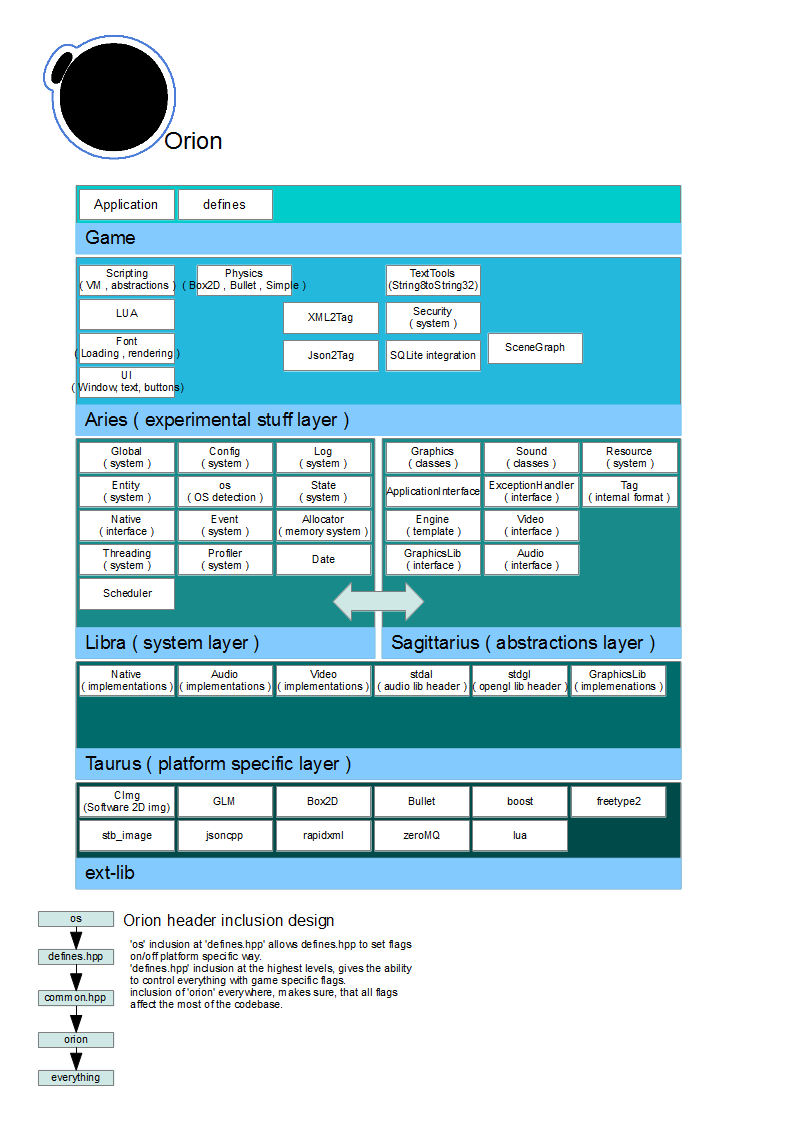
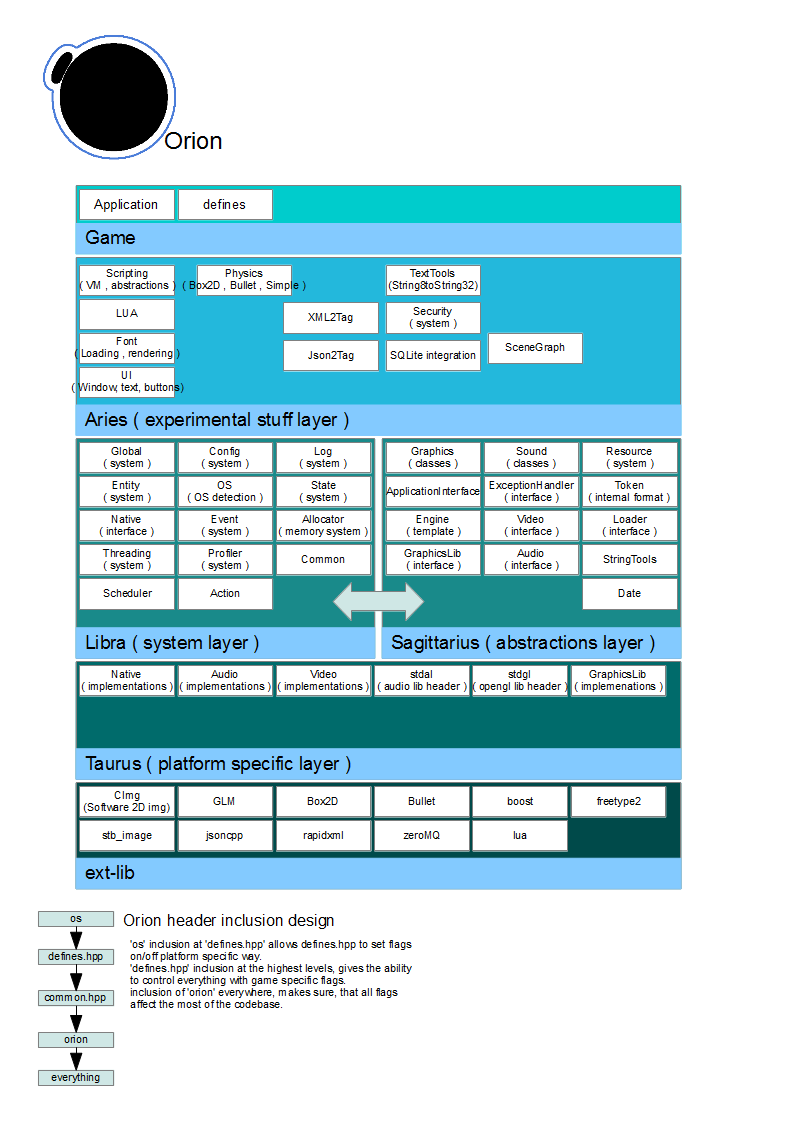
refactored/moved & corrected code errors.. now 1:1 with design

diff --git a/taurus/sdl/sdl_video.cpp b/taurus/sdl/sdl_video.cpp
@@ -9,7 +9,7 @@
 #ifdef SDL_PLATFORM
 #include <config/config.hpp>
 #include <stdgl>
-#include <graphics/graphicslib.hpp>
+#include <graphicslib/graphicslib.hpp>
 
 #include <orionevent>
 

diff --git a/taurus/sdl/sdl_graphicslib.cpp b/taurus/sdl/sdl_graphicslib.cpp
@@ -8,7 +8,7 @@
 #include "sdl_detect.hpp"
 #ifdef SDL_PLATFORM
 
-#include <graphics/graphicslib.hpp>
+#include <graphicslib/graphicslib.hpp>
 #include <stdgl>
 
 namespace orion {

diff --git a/sagittarius/date.cpp b/sagittarius/date.cpp
@@ -5,7 +5,7 @@
  *      Author: akin
  */
 
-#include "date.hpp"
+#include "date"
 #include <native>
 
 namespace orion {
